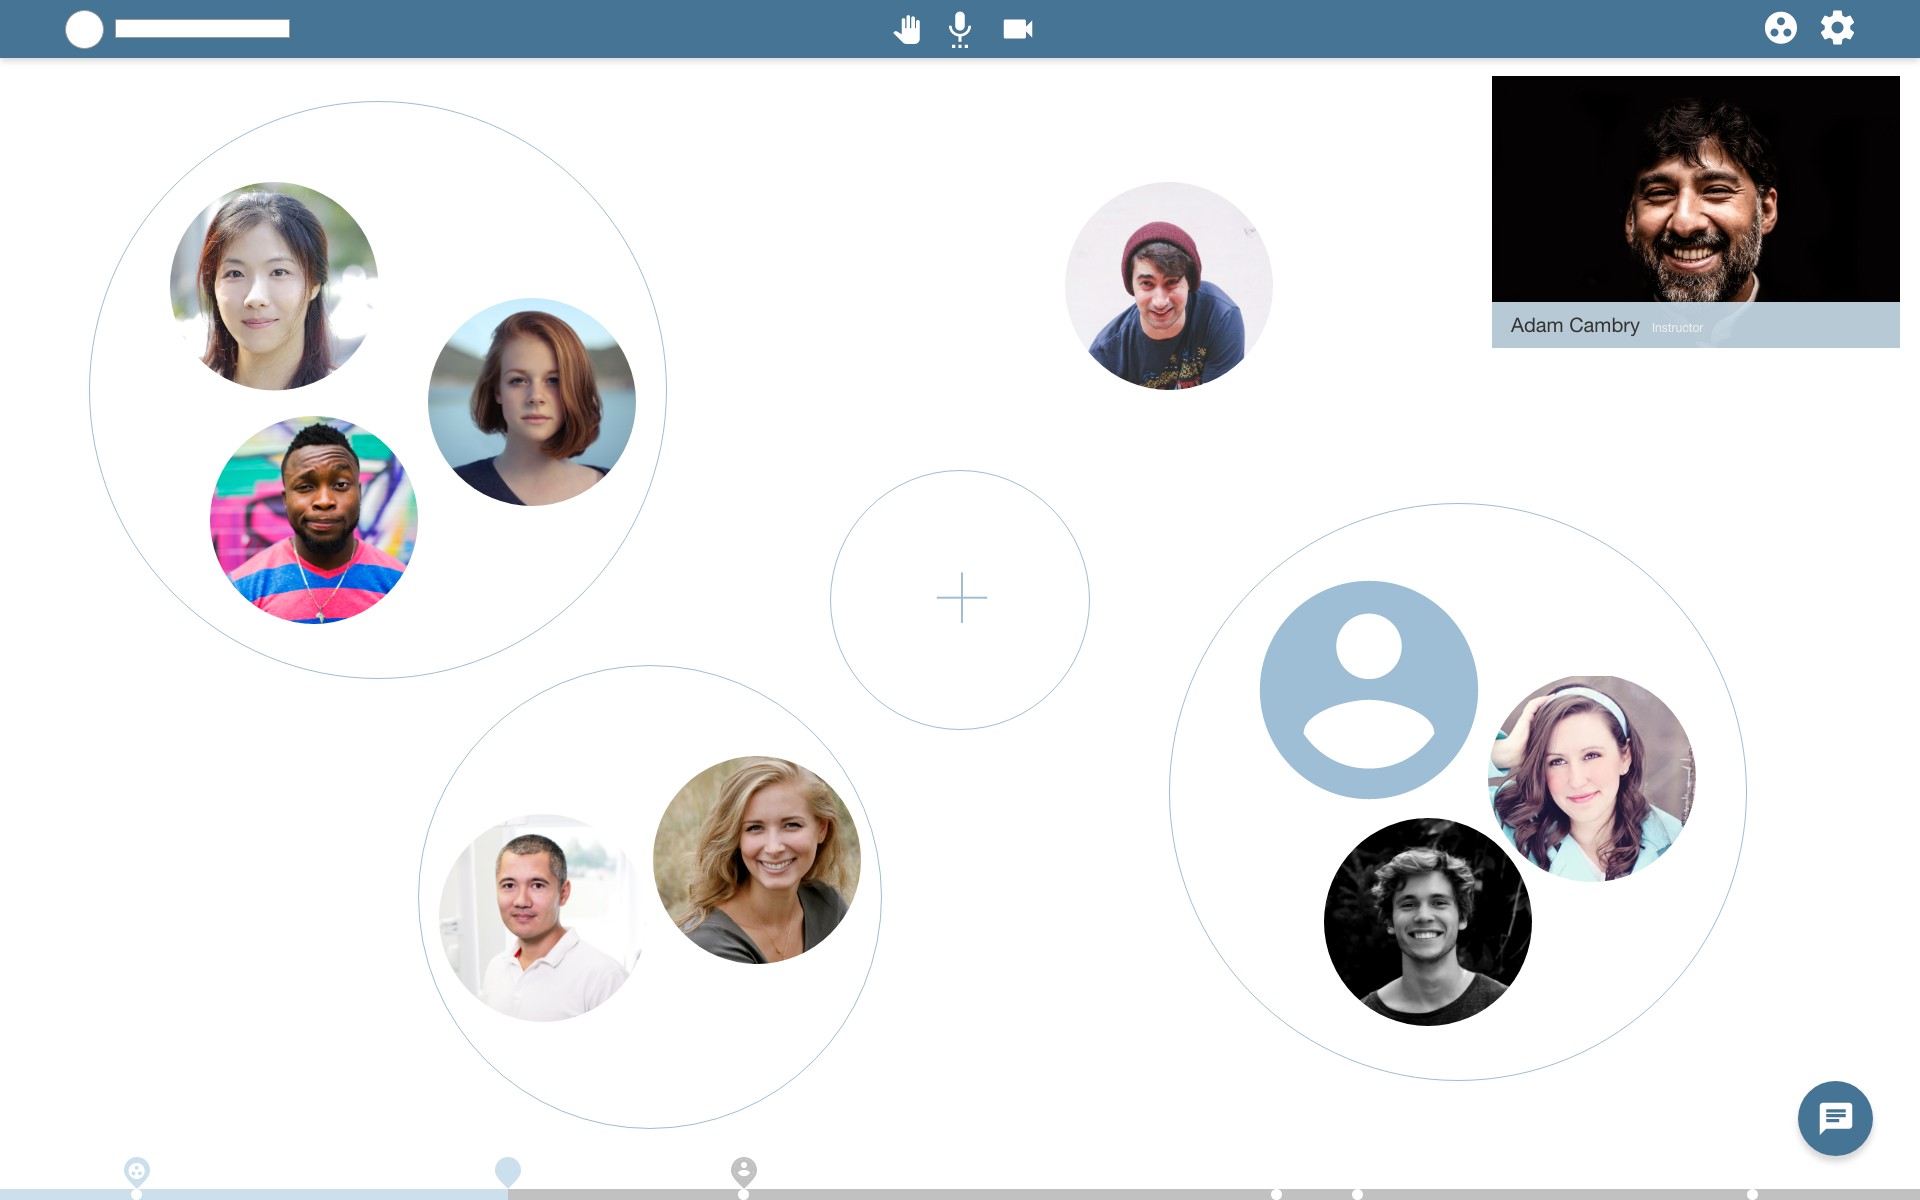
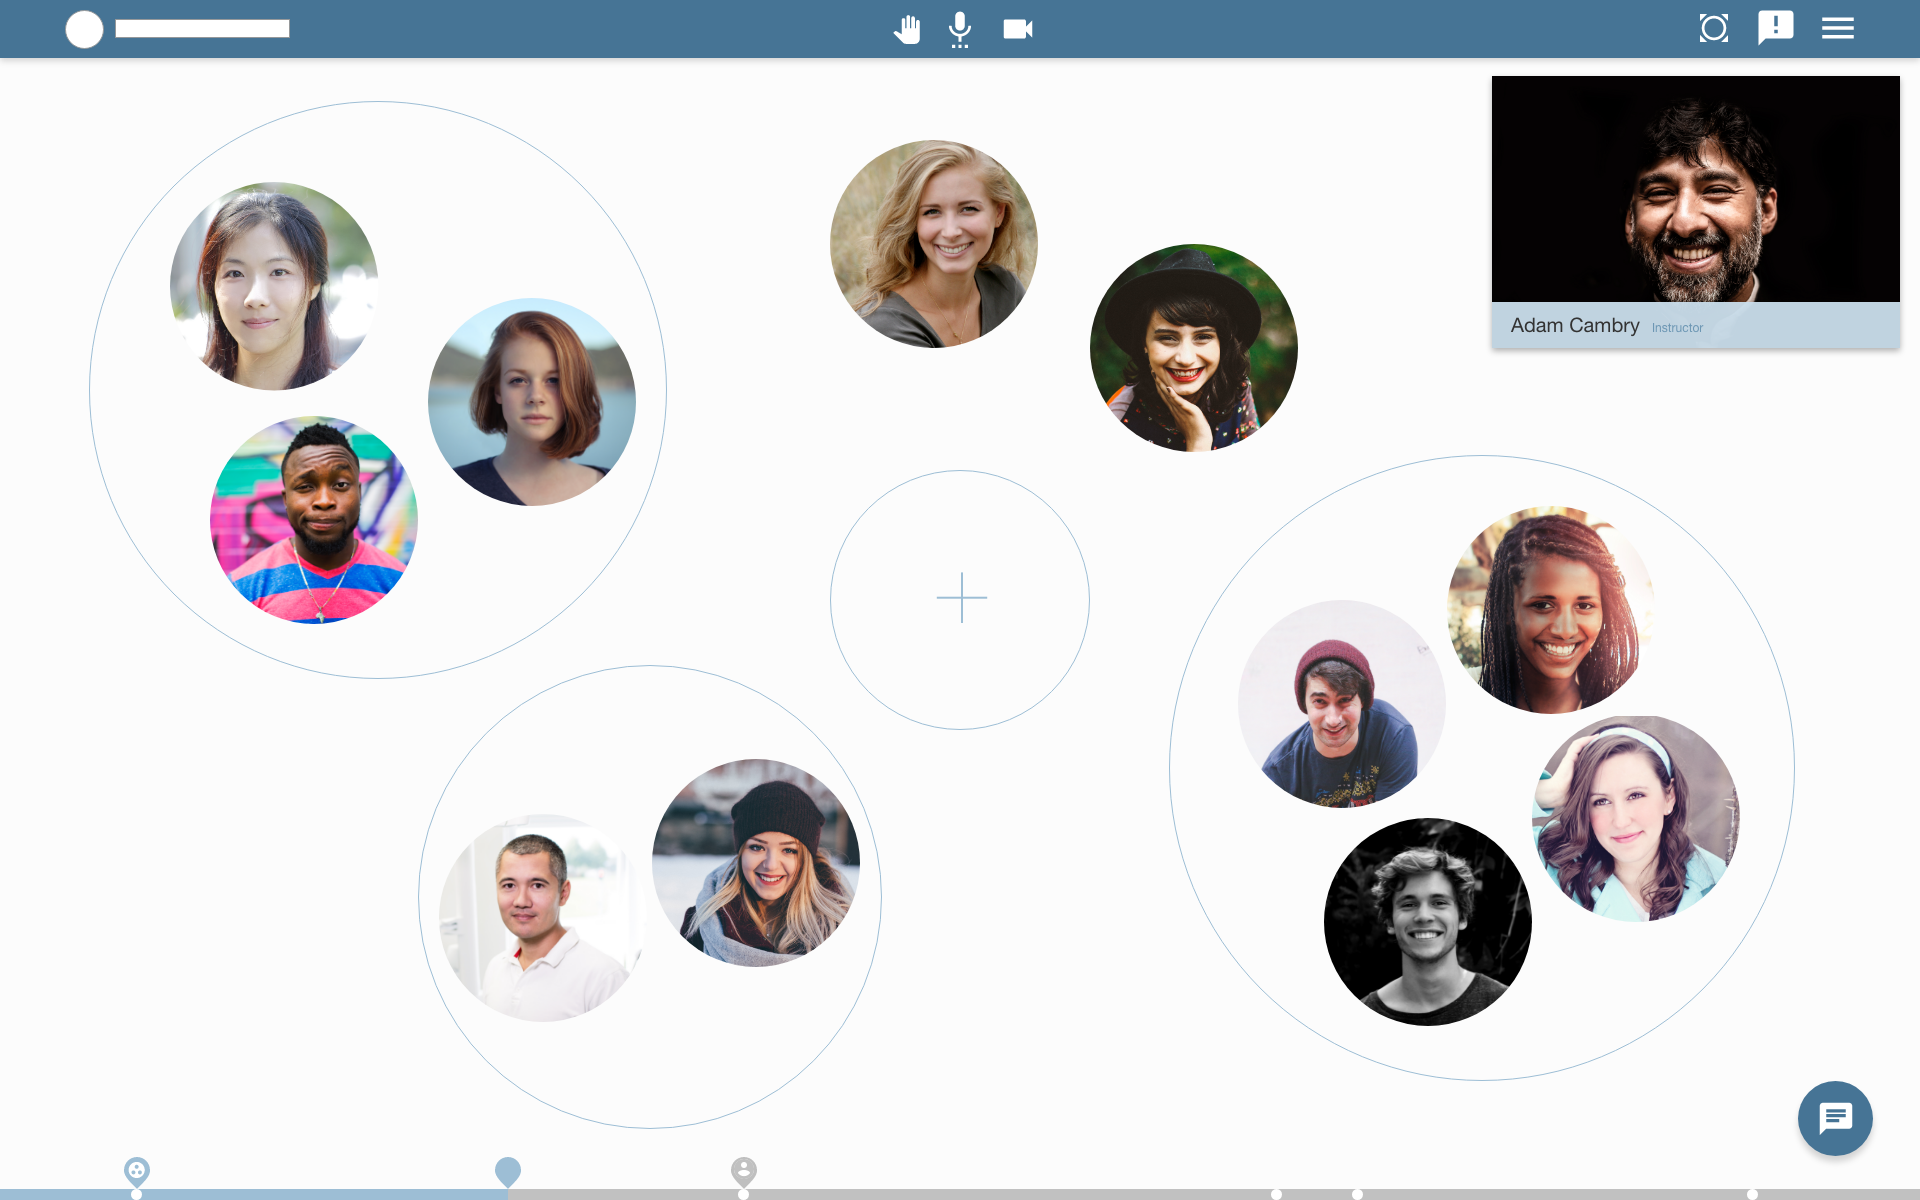
updated prototype visual

diff --git a/index.html b/index.html
@@ -49,7 +49,7 @@
 					<div class="cd-more-info cd-bottom">
 						<h2>Dynamic Options</h2>
 						<p>
-							While settings and other options can be accessed at all times, featured bottons along the top nav change dynamically based on the current needs of the user. In the groups mode (current), for example, a groups control button is added for easy access.  
+							While settings and other options can be accessed at all times in the menu, featured bottons along the top nav change dynamically based on the current needs of the user. In the groups mode (current), for example, group messaging and ending groups buttons are added.  
 						</p>
 						<a href="#0" class="cd-close-info cd-img-replace">Close</a>
 					</div>

diff --git a/css/style.css b/css/style.css
@@ -509,7 +509,7 @@ Main components
 }
 .cd-single-point:nth-of-type(2) {
   top: -1%;
-  right: 10%;
+  right: 14%;
 }
 .cd-single-point:nth-of-type(3) {
   top: 6%;
